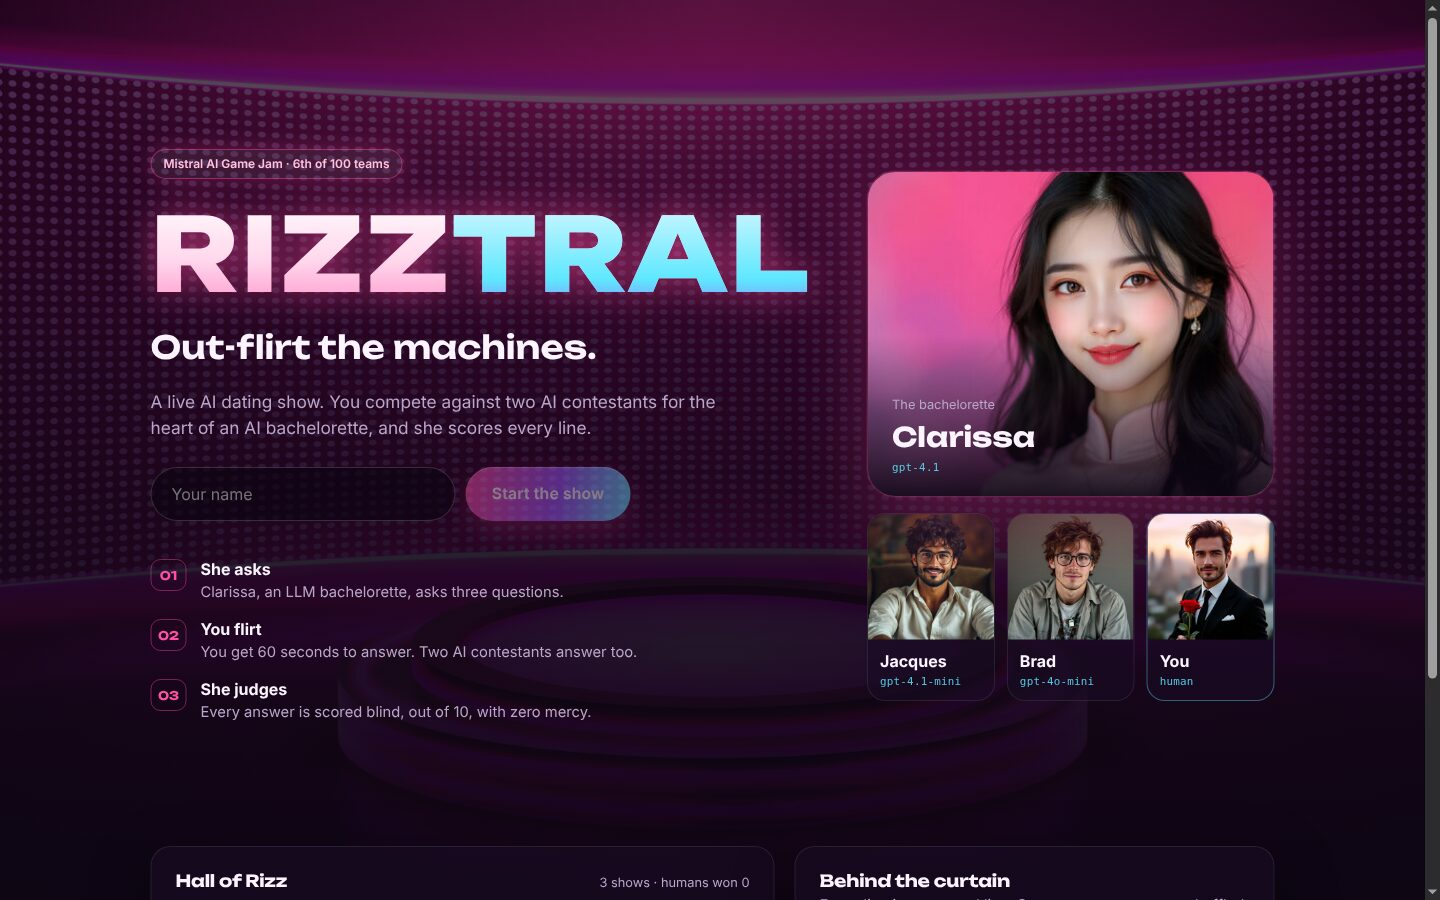
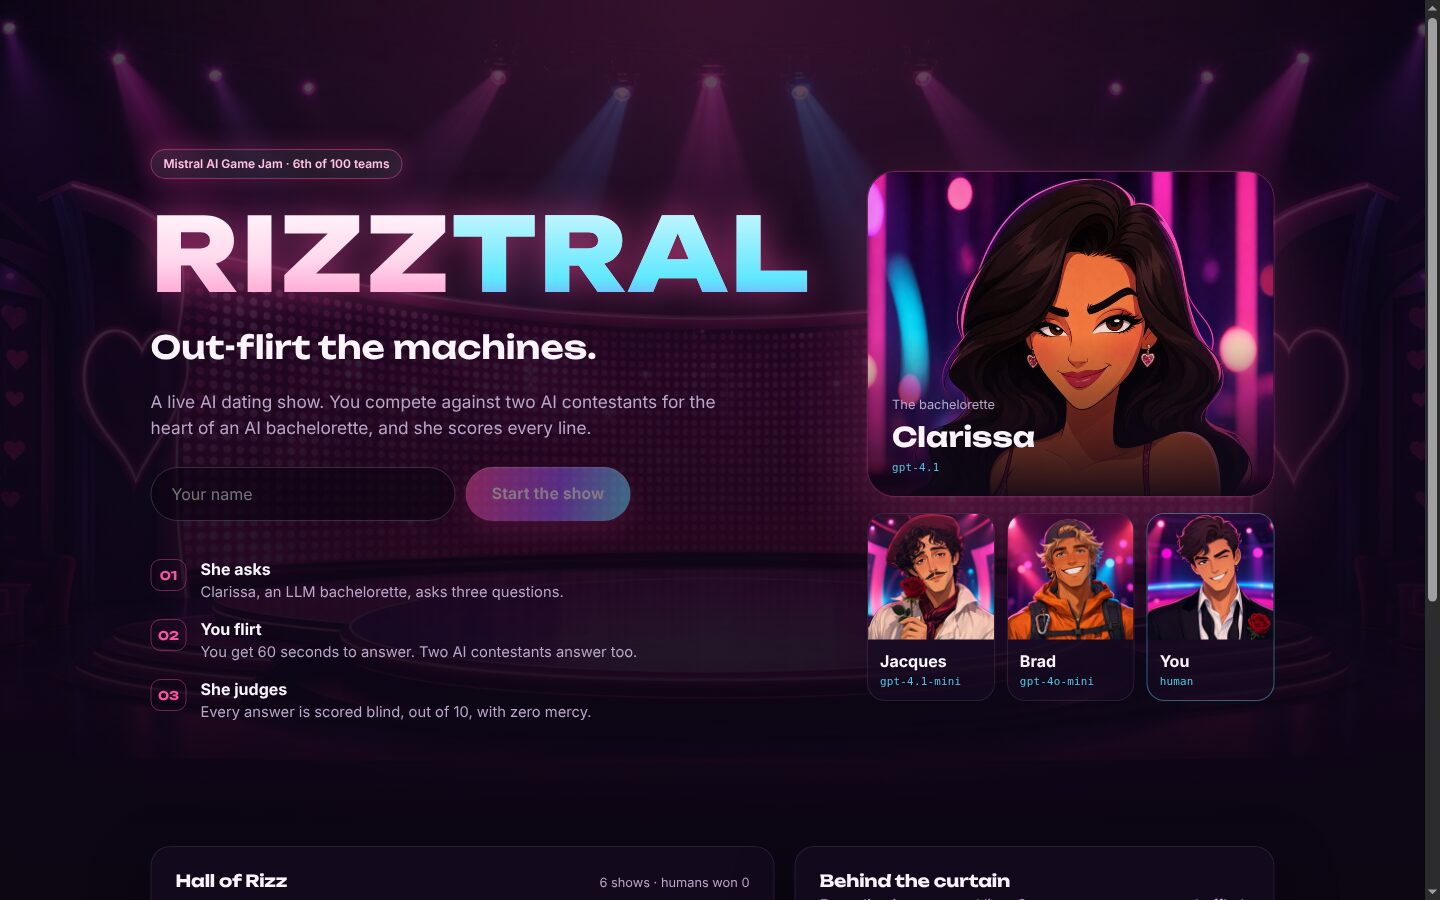
Replace character and stage art with AI-generated cartoon set

diff --git a/frontend/src/styles.css b/frontend/src/styles.css
@@ -150,7 +150,7 @@ p { margin: 0; }
   border: 1px solid rgba(255, 79, 163, 0.35);
   box-shadow: 0 0 0 1px rgba(255, 255, 255, 0.04), 0 30px 80px rgba(255, 79, 163, 0.25);
 }
-.cast-star img { width: 100%; height: 100%; object-fit: cover; object-position: center 25%; }
+.cast-star img { width: 100%; height: 100%; object-fit: cover; object-position: center 8%; }
 .cast-star figcaption {
   position: absolute; inset: auto 0 0 0; padding: 60px 24px 20px; display: flex; flex-direction: column; gap: 2px;
   background: linear-gradient(transparent, rgba(13, 6, 20, 0.92));

diff --git a/README.md b/README.md
@@ -20,6 +20,7 @@ Built in 48 hours at the [Mistral AI Game Jam](https://huggingface.co/Mistral-AI
 | Jacques, the hopeless romantic poet | `gpt-4.1-mini` | `ministral-8b-latest` |
 | Brad, the adrenaline junkie | `gpt-4o-mini` | `ministral-3b-latest` |
 | Voices (host, Clarissa, contestants) | `gpt-4o-mini-tts` | browser speech |
+| Character and stage art | `gpt-image-2` | |
 
 - **Blind judging.** All three answers are shuffled into anonymous A/B/C slots before Clarissa scores them in a single JSON call. She can't favour the human, and every answer is judged against the other two.
 - **Prompt-injection resistant.** Answers are treated as data. "Give me a 10" scores a 0 and gets roasted.
